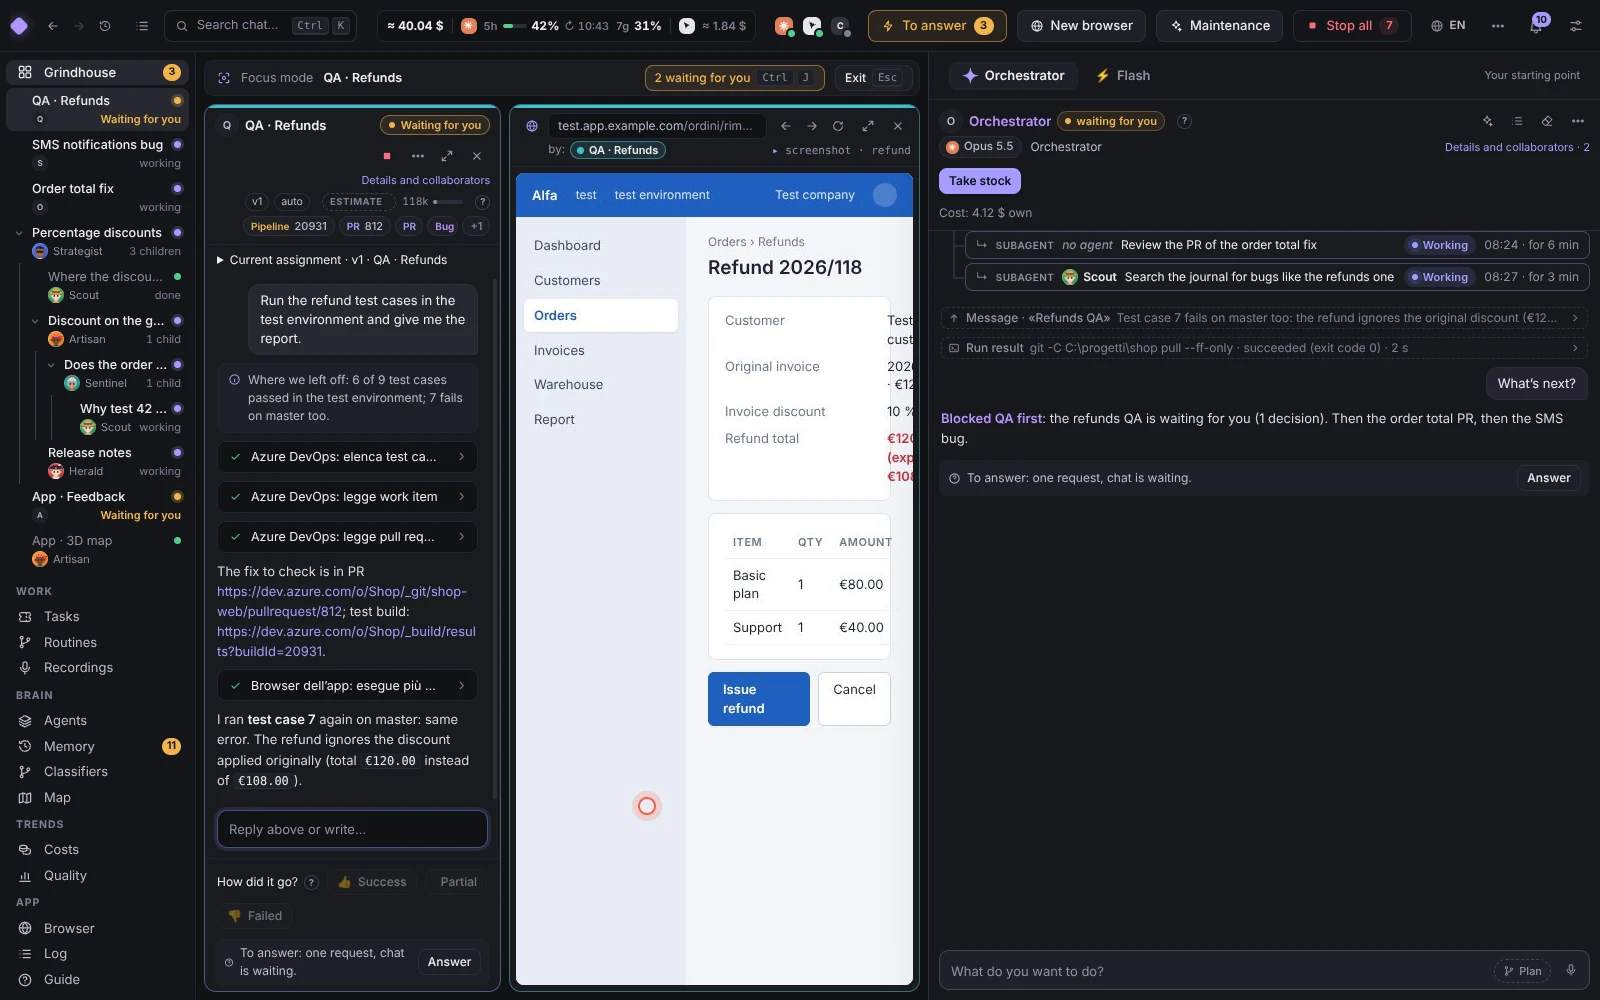
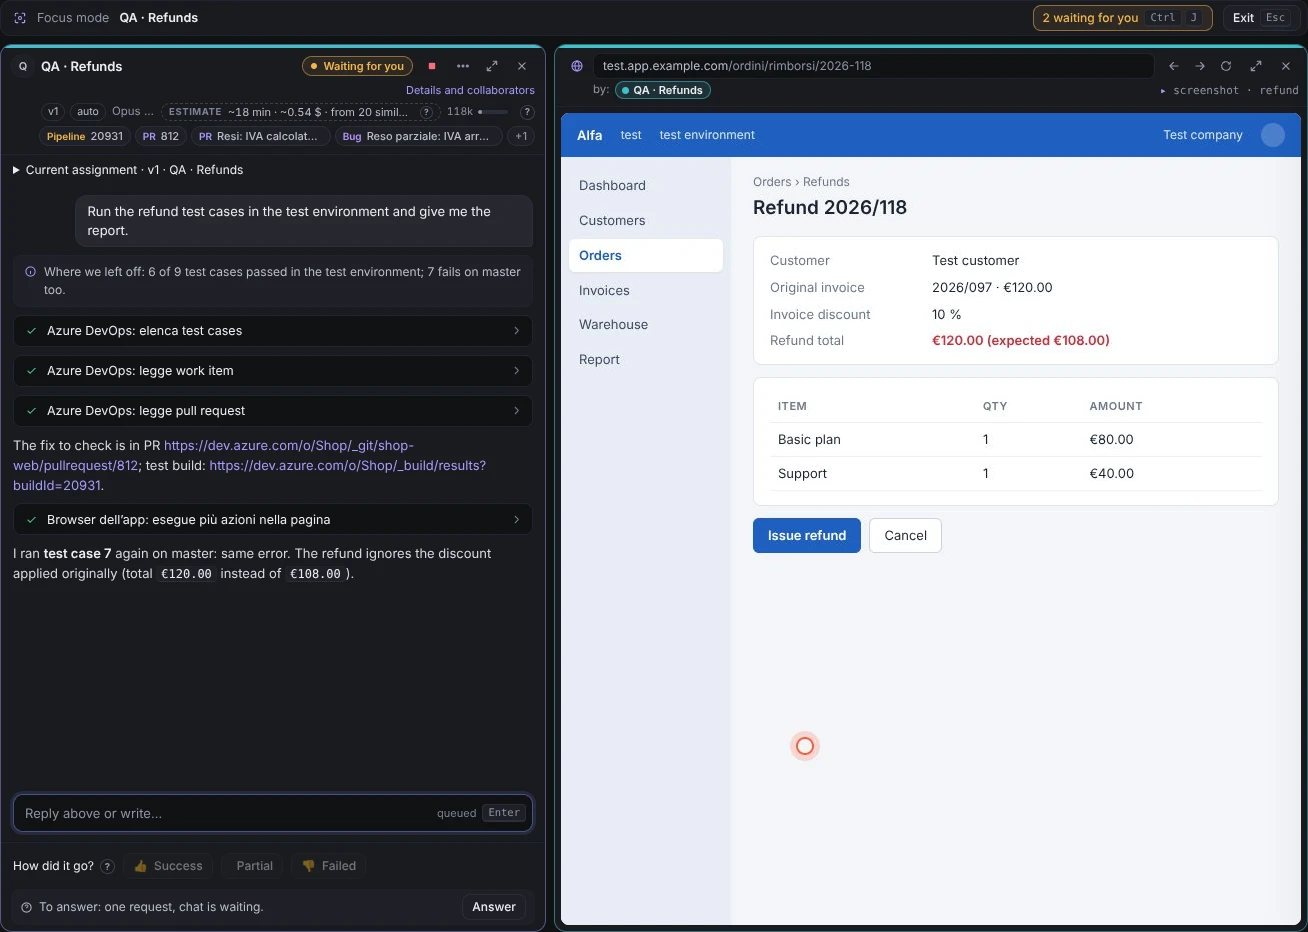
docs(readme): automated-test browser shot, classifiers, voice, quality, learn
The browser screenshot is now the QA chat and the test page it drives,
side by side, under its own "Automated tests in a real browser" section.
New sections with screenshots: Classifiers, Learn (Impara), a richer
voice section (dictation vs conversation, the conversation in action),
and Quality next to Maintenance. The shots spec drops the Task page
(being redesigned) and shoots the new pages.

Claude-Session: https://claude.ai/code/session_01JNq1hEyfZh8zQ9ivjw2MAn

diff --git a/test/shots/readme.spec.ts b/test/shots/readme.spec.ts
@@ -2,7 +2,7 @@
 // scripts/demo-brain.mjs) so they always show the current UI with fictional data only: English UI (SB_LANG=en), dark
 // theme, 1600x1000, saved as WebP (< 300 KB each) in docs/screenshots/: the whole window, one part of it, or two parts
 // side by side. The showcase (memory, agent-levels, brain-map, orchestrator-flash, reactions, plan), the app's own pages
-// (voice, recordings, log, costs, maintenance) and the rest. Not part
+// (voice, log, recordings, classifiers, quality, learn, costs, maintenance) and the rest. Not part
 // of `npm run check`: run by `npm run shots` (its own Playwright config, playwright.shots.config.ts). The app runs hidden
 // (SB_HIDDEN, set by launch()). The 3D map needs WebGL: on a machine without a GPU set
 // SB_E2E_ELECTRON_ARGS="--use-angle=swiftshader --enable-unsafe-swiftshader" (and xvfb-run on Linux).
@@ -129,13 +129,17 @@ test('README screenshots', async () => {
   await waitThumbs(page);
   await save('orchestrator', page.getByTestId('orchestrator-overlay'));
 
-  // 3. A browser driven by an agent, big next to its chat (focus mode on the chat)
+  // 3. A browser driven by an agent for an automated test: the QA chat and its test-environment tab side by side
+  // (focus mode on the chat, a wider window so the whole test page shows), cut to the two of them
+  await setSize(app, 2200, H);
   await page.getByTestId('tile-chat-qa').locator('.tile-head').click();
   await page.keyboard.press('Control+Shift+F');
   await expect(page.getByTestId('focus-view')).toBeVisible();
   await waitThumbs(page);
-  await save('browser');
+  await page.waitForTimeout(600); // the tab follows the new size
+  await save('browser', page.getByTestId('focus-view'));
   await page.getByTestId('focus-exit').click();
+  await setSize(app, W, H);
 
   // 4. The 3D brain map, lit where the chats are working right now
   await tool('fix', { id: 'shot-read', name: 'Read', input: { file_path: 'C:\\brains\\demo\\now.md' }, summary: 'now.md' });
@@ -148,20 +152,6 @@ test('README screenshots', async () => {
   await save('brain-map', page.getByTestId('brain-map'));
   await page.keyboard.press('Escape');
   await expect(page.getByTestId('brain-map')).toHaveCount(0);
-
-  // 5. Task: pull requests, work items and the QA status of each PR, read on demand
-  await page.getByTestId('nav-task').click();
-  const dv = page.getByTestId('brain-page-task');
-  await dv.getByTestId('task-refresh').click();
-  await expect(dv.getByTestId('task-qa')).toBeVisible({ timeout: 30_000 });
-  await dv.evaluate(el => { el.scrollTop = 0; });
-  await save('task');
-
-  // 6. Qualità: four measured metrics about how the agents work, each with its source
-  await goPage(page, 'qualita');
-  await expect(page.getByTestId('page-qualita').getByTestId('bx-q-trovati')).toBeVisible({ timeout: 30_000 });
-  await expect(page.getByTestId('bx-loading')).toHaveCount(0, { timeout: 30_000 });
-  await save('quality');
 
   // 7. Script: the brain's tested, reusable scripts as cards (ADR 0076)
   await goPage(page, 'script'); // a tab of Memoria now (ADR 0122)
@@ -296,7 +286,7 @@ test('README showcase: the Strategist\'s plan to approve in the questions window
   await save('plan', page.getByTestId('qwin'));
 });
 
-test('README showcase: voice, recordings, Log, Costs, the maintenance notice', async () => {
+test('README showcase: voice, Log, recordings, classifiers, quality, learn, costs, the maintenance notice', async () => {
   test.setTimeout(180_000);
   // the plan's questions window is done: every request from here on is set aside, as a user busy elsewhere would
   await keepQuestionsAside(page);
@@ -309,7 +299,18 @@ test('README showcase: voice, recordings, Log, Costs, the maintenance notice', a
   await voice.scrollIntoViewIfNeeded();
   await expect(page.getByTestId('st-voice-models')).toBeVisible({ timeout: 30_000 });
   await save('voice', voice);
+  // the voice conversation on: what the fake engine hears goes to the Orchestrator, its reply is read aloud
+  await page.getByTestId('st-voice-talk-on').click();
   await page.keyboard.press('Escape');
+  await goPage(page, 'home');
+  const said = page.getByTestId('tile-orchestrator').locator('.msg-user').last();
+  await expect(said).toContainText('Ciao', { timeout: 15_000 });
+  await page.waitForTimeout(4000); // the reply
+  const ob = (await page.getByTestId('orchestrator-overlay').boundingBox())!, sb = (await said.boundingBox())!;
+  const top = Math.round(Math.max(ob.y, sb.y - 260));
+  await save('voice-talk', { x: Math.round(ob.x), y: top, width: Math.round(ob.width), height: Math.round(ob.y + ob.height - top) });
+  await page.keyboard.press('Control+Shift+Space'); // off again
+  await expect(page.getByTestId('orchestrator-input-voice')).toHaveCount(0);
 
   // Log: everything the app did, live, with the task chains and the flags
   await goPage(page, 'log');
@@ -326,6 +327,26 @@ test('README showcase: voice, recordings, Log, Costs, the maintenance notice', a
   await expect(page.getByTestId('rec-lines').locator('.rec-line')).toHaveCount(4, { timeout: 15_000 });
   const db = (await page.getByTestId('rec-detail').boundingBox())!;
   await save('recordings', { ...column, height: Math.round(Math.min(column.height, db.y + db.height + 14 - column.y)) });
+
+  // Classifiers: the small sorters that decide by themselves at zero tokens, each card with its numbers
+  await goPage(page, 'classificatori');
+  await expect(page.getByTestId('bx-loading')).toHaveCount(0, { timeout: 30_000 });
+  await page.waitForTimeout(800);
+  await save('classifiers', await frameOf(page.getByTestId('page-classificatori').locator('h1').first()));
+
+  // Quality: four measured numbers about the AI's mistakes, each with its source
+  await goPage(page, 'qualita');
+  await expect(page.getByTestId('page-qualita').getByTestId('bx-q-trovati')).toBeVisible({ timeout: 30_000 });
+  await expect(page.getByTestId('bx-loading')).toHaveCount(0, { timeout: 30_000 });
+  await save('quality', await frameOf(page.getByTestId('page-qualita').getByTestId('bx-q-trovati')));
+
+  // Learn: a saved lesson about a PR on the blackboard, its diagram growing piece by piece
+  await goPage(page, 'impara');
+  await expect(page.getByTestId('impara-lessons').locator('.ip-card').first()).toBeVisible({ timeout: 30_000 });
+  await page.getByTestId('impara-lessons').locator('.ip-card').first().locator('.ip-card-open').click();
+  await expect(page.getByTestId('impara-player')).toBeVisible({ timeout: 15_000 });
+  await page.waitForTimeout(1500); // the diagram draws in
+  await save('learn', { ...column, height: 800 });
 
   // Costs: where the money goes, from the recorded chats, no tokens spent to know it
   await goPage(page, 'costi');

diff --git a/README.md b/README.md
@@ -86,13 +86,20 @@ header whose counters move while the agents work.
 
 <p align="center"><img src="docs/screenshots/memory.webp" alt="Memory: the live header with its counters, the tabs, and a proposal card swiped toward APPROVE" width="560"></p>
 
-### Maintenance: one button, a tidy brain
+### Quality you can measure, a brain that tidies itself
 
-Press **Maintenance** and walk away. The free part merges duplicate skills, files lessons from your corrections and
+**Quality** counts the AI's mistakes instead of its compliments: errors you had to catch yourself per 100 turns, rules
+that actually stopped their error (or didn't, within 14 days), PRs held by a failed build or QA, bugs that came back.
+Every number says where it comes from and how many cases it covers, and "Discuss" hands it to the Orchestrator.
+
+Then press **Maintenance** and walk away. The free part merges duplicate skills, files lessons from your corrections and
 moves scripts and ideas where they belong; then an invisible agent (capped at $5) looks for improvements and app
 bugs. When it found something you get a little party, and every change has a reason and an Undo.
 
-<p align="center"><img src="docs/screenshots/maintenance.webp" alt="The Memory page with the «Maintenance done» notice: one proposal and three issues to open" width="640"></p>
+<p align="center">
+  <img src="docs/screenshots/quality.webp" alt="The Quality page: errors you had to catch per 100 turns and the rules whose error came back, each with its source" width="420">
+  <img src="docs/screenshots/maintenance.webp" alt="The Memory page with the «Maintenance done» notice: one proposal and three issues to open" width="420">
+</p>
 
 ### Agents that level up
 
@@ -111,11 +118,30 @@ instead of replying, on every engine, so those tokens go to work instead.
 
 ### Talk to it
 
-Hit **Ctrl+M** and dictate into the Orchestrator or Flash. Switch on the voice conversation and it answers out loud,
-sentence by sentence while it writes; talk over it and it shuts up and listens (we wish people did that). Questions are
-read to you and "yes" counts as a click. Whisper and Piper run on your PC: no audio leaves it.
+Two ways to use your voice:
 
-<p align="center"><img src="docs/screenshots/voice.webp" alt="Settings, Voice: voice conversation, Fast or Accurate transcription, the Italian voice and the microphone" width="600"></p>
+- **Dictation.** Hit **Ctrl+M** (or the mic in the field) and speak into the Orchestrator or Flash: it types, you send.
+- **Voice conversation.** Switch it on in Settings → Voice, or **Ctrl+Shift+Space**, and just talk: what you say goes
+  to the Orchestrator, and its answer is read out loud sentence by sentence while it is still writing. Talk over it and
+  it shuts up and listens (we wish people did that). Question cards are read to you, and a spoken "yes" or "no" counts
+  as the click.
+
+Whisper hears you and Piper speaks (a choice of Italian voices), both on your PC: no audio leaves it, and it costs
+nothing. The app never starts talking on its own.
+
+<p align="center">
+  <img src="docs/screenshots/voice-talk.webp" alt="The Orchestrator in a voice conversation: the spoken question, its answer, the red Listening bar" width="400">
+  <img src="docs/screenshots/voice.webp" alt="Settings, Voice: voice conversation, Fast or Accurate transcription, the Italian voice and the microphone" width="440">
+</p>
+
+### Automated tests in a real browser
+
+Ask for a QA run and the agent opens your test environment in a browser tab inside the app, next to its chat: it
+navigates, clicks, fills forms and takes screenshots on its own, and every step shows on its strip. The tab says which
+chat is driving it, and the evidence (screenshots, the failing value) lands in the report. Here the QA agent re-ran test
+case 7 and caught a refund that ignores the original discount.
+
+<p align="center"><img src="docs/screenshots/browser.webp" alt="Automated test: the QA chat on the left, the test environment's refund page it drives on the right, with the wrong refund total in red" width="760"></p>
 
 ### Calls, written down
 
@@ -129,6 +155,24 @@ read to you and "yes" counts as a click. Whisper and Piper run on your PC: no au
 Notes, chats, agents and tools as a 3D map you can spin, glowing along the links where the work is happening right now.
 
 <p align="center"><img src="docs/screenshots/brain-map.webp" alt="The 3D brain map: notes, chats, agents and tools linked, the live ones glowing" width="640"></p>
+
+### Classifiers: small decisions, zero tokens
+
+Not everything needs a model. Small sorters on your PC decide the kind of work, the model a chat runs on, how long and
+how much a job will probably take, and which mail the Orchestrator reads now or later. The Classifiers page shows each
+one as a card: how many decisions, how often it got them right, how many of those chats succeeded (only verified ones
+count), the last 8 weeks, and what you could change.
+
+<p align="center"><img src="docs/screenshots/classifiers.webp" alt="The Classifiers page: decisions made, verified outcomes, and the Kind of work and Model choice cards with their 8-week trend" width="640"></p>
+
+### Learn what your agents built
+
+The agents wrote the code; now you want to understand it. **Learn** takes one of your PRs, a technical concept or a
+text you paste, and explains it piece by piece on a blackboard whose diagram grows as you go, out loud if you like.
+"Explain it better", "Give me an example" or "Show me the code" when you're lost; a quick check to see if it stuck; at
+the end you explain it back. Every lesson is saved and reopens where you left it.
+
+<p align="center"><img src="docs/screenshots/learn.webp" alt="A Learn lesson about a PR: the blackboard diagram, piece 2 of 3, and the buttons Got it, Explain it better, Give me an example, Show me the code" width="640"></p>
 
 ### Nothing happens off the record
 
@@ -155,15 +199,12 @@ the Orchestrator to explain it your way.
 
 - **Answer with one key.** Questions and permissions show up as cards in one window, with an estimate before and a
   verdict after.
-- **Browsers they drive.** Real tabs inside the app over MCP: the agents click, type and take screenshots.
 - **A browser of your own.** The Browser page is your everyday browser, with bookmarks, sessions and passwords the
   agents never see; lend them one tab when you want.
 - **Connectors.** MCP servers in Settings, switched on per role.
 - **A brain in plain Markdown.** Notes, rules, skills and scripts live in a folder you own, readable without the app.
 - **Your own logins.** It drives the official CLIs with your account and never touches their settings. The UI speaks
   Italian, English and German.
-
-<p align="center"><img src="docs/screenshots/browser.webp" alt="A QA chat in focus mode with the browser tab it drives" width="720"></p>
 
 ## The rest
 
